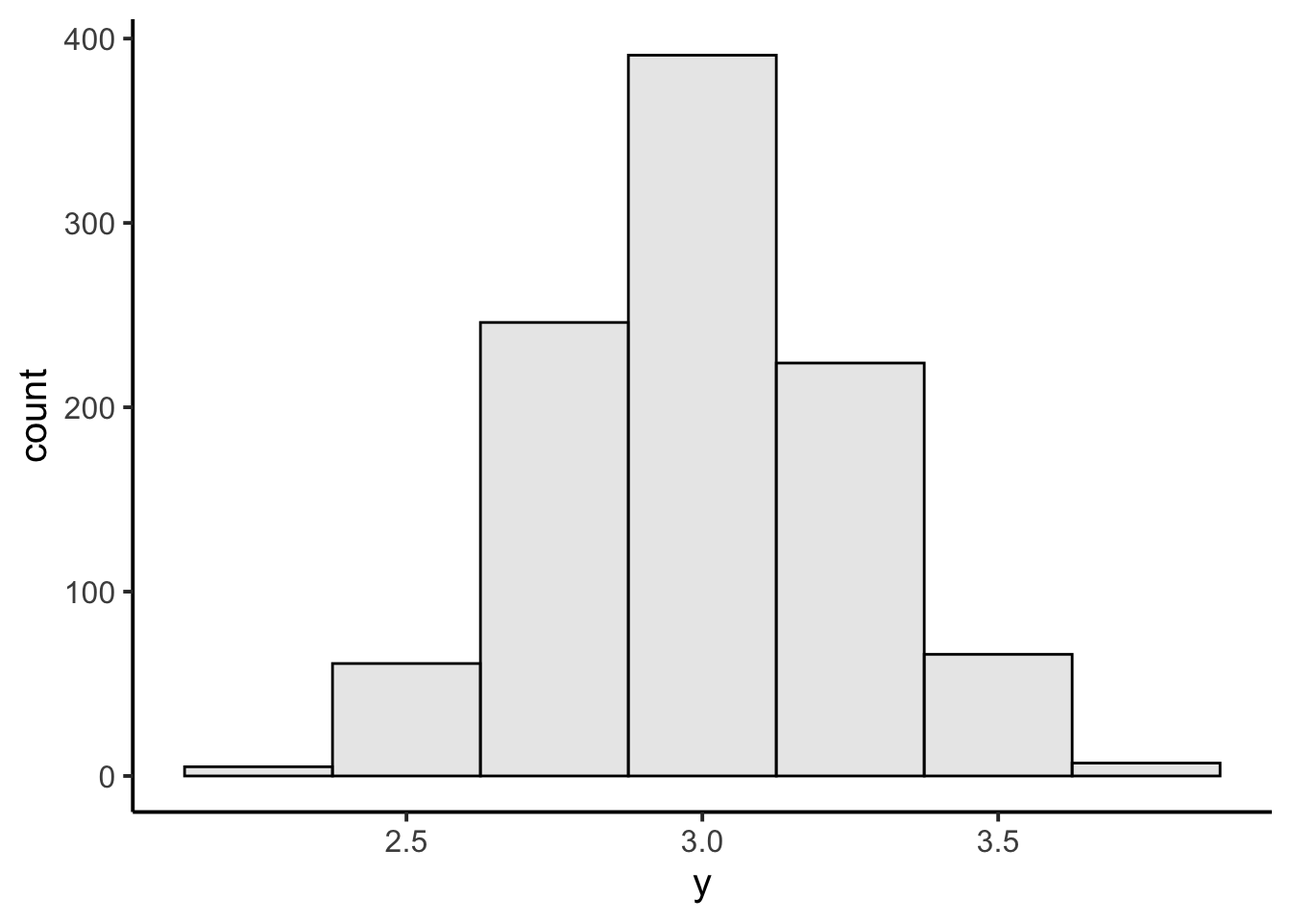
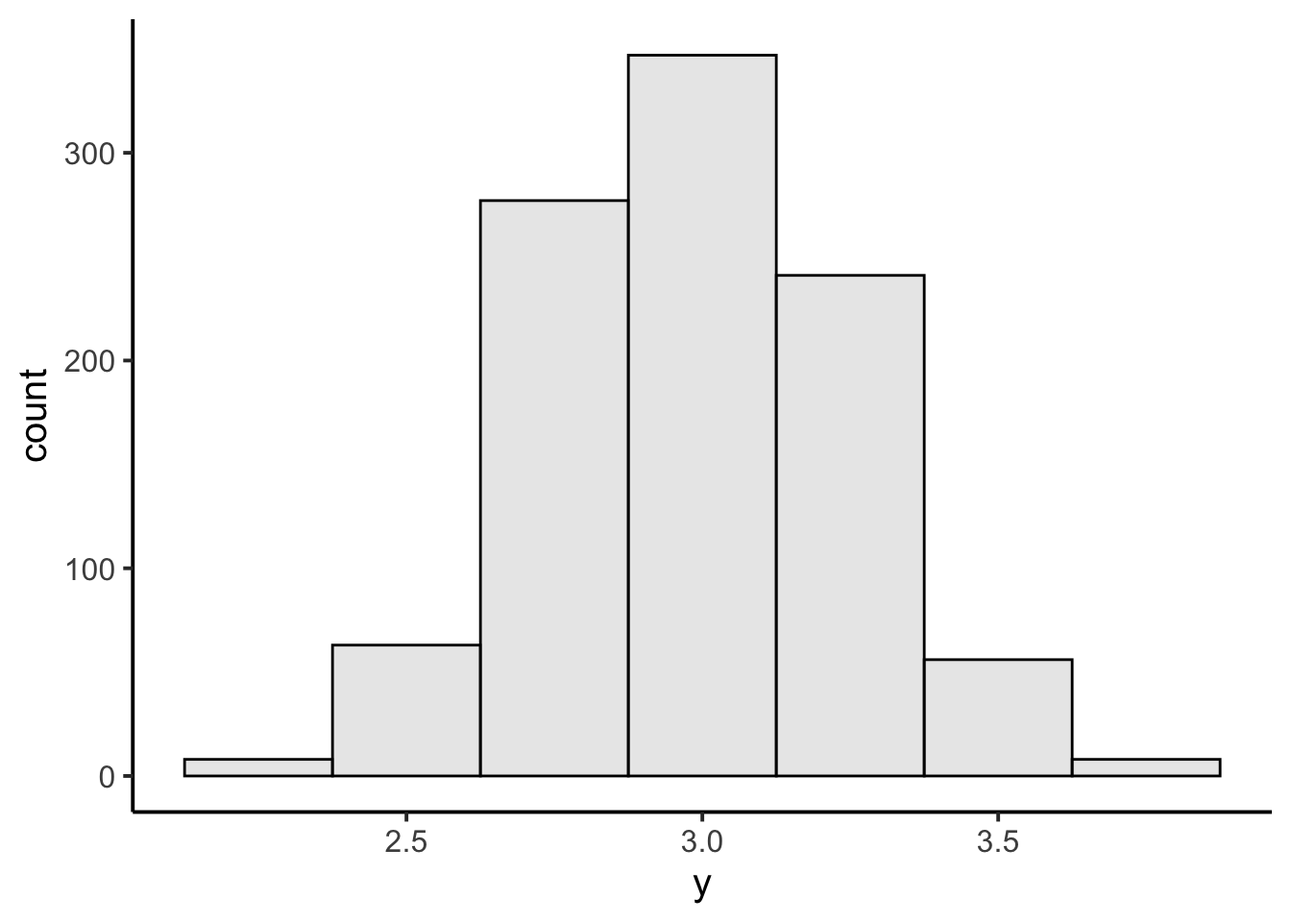
Built site for gh-pages

diff --git a/labs/lab-01.html b/labs/lab-01.html
@@ -412,46 +412,46 @@ window.onload = function() {
 <section id="google-colab" class="level2" data-number="1">
 <h2 data-number="1" class="anchored" data-anchor-id="google-colab"><span class="header-section-number">1</span> Google Colab</h2>
 <p>True or false? We start a new R notebook in Google Colab with <code>File &gt; New notebook</code></p>
-<div id="radio_JQODFBOKNU" class="webex-radiogroup">
-<label><input type="radio" autocomplete="off" name="radio_JQODFBOKNU" value=""> <span>True</span></label><label><input type="radio" autocomplete="off" name="radio_JQODFBOKNU" value="answer"> <span>False</span></label>
+<div id="radio_GAFTYMOQOV" class="webex-radiogroup">
+<label><input type="radio" autocomplete="off" name="radio_GAFTYMOQOV" value=""> <span>True</span></label><label><input type="radio" autocomplete="off" name="radio_GAFTYMOQOV" value="answer"> <span>False</span></label>
 </div>
 <p>For problem sets, how will you submit your colab notebook for grading?</p>
-<div id="radio_BHKYVLHBWE" class="webex-radiogroup">
-<label><input type="radio" autocomplete="off" name="radio_BHKYVLHBWE" value="answer"> <span><code>File &gt; Download &gt; Download .ipynb</code>, then upload to Gradescope</span></label><label><input type="radio" autocomplete="off" name="radio_BHKYVLHBWE" value=""> <span><code>File &gt; Download &gt; Download .ipynb</code>, then upload to Canvas</span></label><label><input type="radio" autocomplete="off" name="radio_BHKYVLHBWE" value=""> <span><code>File &gt; Download &gt; Download .py</code>, then upload to Gradescope</span></label><label><input type="radio" autocomplete="off" name="radio_BHKYVLHBWE" value=""> <span><code>File &gt; Download &gt; Download .py</code>, then upload to Canvas</span></label>
+<div id="radio_HSCRDJYMYS" class="webex-radiogroup">
+<label><input type="radio" autocomplete="off" name="radio_HSCRDJYMYS" value="answer"> <span><code>File &gt; Download &gt; Download .ipynb</code>, then upload to Gradescope</span></label><label><input type="radio" autocomplete="off" name="radio_HSCRDJYMYS" value=""> <span><code>File &gt; Download &gt; Download .ipynb</code>, then upload to Canvas</span></label><label><input type="radio" autocomplete="off" name="radio_HSCRDJYMYS" value=""> <span><code>File &gt; Download &gt; Download .py</code>, then upload to Gradescope</span></label><label><input type="radio" autocomplete="off" name="radio_HSCRDJYMYS" value=""> <span><code>File &gt; Download &gt; Download .py</code>, then upload to Canvas</span></label>
 </div>
 <p>What version of R is Google Colab running? Hint: use <code>sessionInfo()</code>.</p>
 <p><input class="webex-solveme nospaces" size="20" data-answer="[&quot;4.3.1&quot;]"></p>
 <p>What is the relationship between R and Google Colab?</p>
-<div id="radio_DTKJQEHMBB" class="webex-radiogroup">
-<label><input type="radio" autocomplete="off" name="radio_DTKJQEHMBB" value=""> <span>R is a programming language. Google Colab is a smaller, specific version of R.</span></label><label><input type="radio" autocomplete="off" name="radio_DTKJQEHMBB" value="answer"> <span>R is a programming language. Google Colab is a development environment where you can run R</span></label><label><input type="radio" autocomplete="off" name="radio_DTKJQEHMBB" value=""> <span>R and Google Colab are both programming languages.</span></label><label><input type="radio" autocomplete="off" name="radio_DTKJQEHMBB" value=""> <span>R is a paid (proprietary) programming language. Google Colab is a free service to run R.</span></label>
+<div id="radio_XBIIFSILUJ" class="webex-radiogroup">
+<label><input type="radio" autocomplete="off" name="radio_XBIIFSILUJ" value=""> <span>R is a programming language. Google Colab is a smaller, specific version of R.</span></label><label><input type="radio" autocomplete="off" name="radio_XBIIFSILUJ" value="answer"> <span>R is a programming language. Google Colab is a development environment where you can run R</span></label><label><input type="radio" autocomplete="off" name="radio_XBIIFSILUJ" value=""> <span>R and Google Colab are both programming languages.</span></label><label><input type="radio" autocomplete="off" name="radio_XBIIFSILUJ" value=""> <span>R is a paid (proprietary) programming language. Google Colab is a free service to run R.</span></label>
 </div>
 </section>
 <section id="r-basics" class="level2" data-number="2">
 <h2 data-number="2" class="anchored" data-anchor-id="r-basics"><span class="header-section-number">2</span> R Basics</h2>
 <p>Which of the following are expressions?</p>
-<div id="radio_QZDQLLTHPH" class="webex-radiogroup">
-<label><input type="radio" autocomplete="off" name="radio_QZDQLLTHPH" value="answer"> <span>10</span></label><label><input type="radio" autocomplete="off" name="radio_QZDQLLTHPH" value="answer"> <span>5 + 10</span></label><label><input type="radio" autocomplete="off" name="radio_QZDQLLTHPH" value="answer"> <span>x &lt;- 5 + 10</span></label><label><input type="radio" autocomplete="off" name="radio_QZDQLLTHPH" value="answer"> <span>x &lt;- y + 10</span></label><label><input type="radio" autocomplete="off" name="radio_QZDQLLTHPH" value="answer"> <span>mean(x)</span></label>
+<div id="radio_UCOGDESHLT" class="webex-radiogroup">
+<label><input type="radio" autocomplete="off" name="radio_UCOGDESHLT" value="answer"> <span>10</span></label><label><input type="radio" autocomplete="off" name="radio_UCOGDESHLT" value="answer"> <span>5 + 10</span></label><label><input type="radio" autocomplete="off" name="radio_UCOGDESHLT" value="answer"> <span>x &lt;- 5 + 10</span></label><label><input type="radio" autocomplete="off" name="radio_UCOGDESHLT" value="answer"> <span>x &lt;- y + 10</span></label><label><input type="radio" autocomplete="off" name="radio_UCOGDESHLT" value="answer"> <span>mean(x)</span></label>
 </div>
 <p>Which of the following are valid variable names in R?</p>
-<div id="radio_DOBWZFVALG" class="webex-radiogroup">
-<label><input type="radio" autocomplete="off" name="radio_DOBWZFVALG" value="answer"> <span>childAge</span></label><label><input type="radio" autocomplete="off" name="radio_DOBWZFVALG" value="answer"> <span>response_time</span></label><label><input type="radio" autocomplete="off" name="radio_DOBWZFVALG" value=""> <span>1stPlaceWinner</span></label><label><input type="radio" autocomplete="off" name="radio_DOBWZFVALG" value=""> <span>2fast2furious</span></label><label><input type="radio" autocomplete="off" name="radio_DOBWZFVALG" value=""> <span>pi</span></label>
+<div id="radio_MMCMQHDRFL" class="webex-radiogroup">
+<label><input type="radio" autocomplete="off" name="radio_MMCMQHDRFL" value="answer"> <span>childAge</span></label><label><input type="radio" autocomplete="off" name="radio_MMCMQHDRFL" value="answer"> <span>response_time</span></label><label><input type="radio" autocomplete="off" name="radio_MMCMQHDRFL" value=""> <span>1stPlaceWinner</span></label><label><input type="radio" autocomplete="off" name="radio_MMCMQHDRFL" value=""> <span>2fast2furious</span></label><label><input type="radio" autocomplete="off" name="radio_MMCMQHDRFL" value=""> <span>pi</span></label>
 </div>
 <p>Suppose we open a new colab notebook and run the following code block. What will be returned?</p>
 <div class="sourceCode" id="cb1"><pre class="sourceCode r code-with-copy"><code class="sourceCode r"><span id="cb1-1"><a href="#cb1-1" aria-hidden="true" tabindex="-1"></a>x <span class="ot">&lt;-</span> <span class="dv">1</span> <span class="sc">+</span> <span class="dv">2</span></span>
 <span id="cb1-2"><a href="#cb1-2" aria-hidden="true" tabindex="-1"></a>y <span class="ot">&lt;-</span> <span class="dv">0</span> <span class="sc">+</span> <span class="dv">3</span></span>
 <span id="cb1-3"><a href="#cb1-3" aria-hidden="true" tabindex="-1"></a><span class="fu">ls</span>()</span></code><button title="Copy to Clipboard" class="code-copy-button"><i class="bi"></i></button></pre></div>
-<div id="radio_FJJPLSKICM" class="webex-radiogroup">
-<label><input type="radio" autocomplete="off" name="radio_FJJPLSKICM" value=""> <span>3</span></label><label><input type="radio" autocomplete="off" name="radio_FJJPLSKICM" value=""> <span>x=3 • y=3</span></label><label><input type="radio" autocomplete="off" name="radio_FJJPLSKICM" value="answer"> <span>'x' • 'y' </span></label><label><input type="radio" autocomplete="off" name="radio_FJJPLSKICM" value=""> <span>mean(c(1,3,5)) • median(c(1,3,5))</span></label>
+<div id="radio_FJQXQTOWFB" class="webex-radiogroup">
+<label><input type="radio" autocomplete="off" name="radio_FJQXQTOWFB" value=""> <span>3</span></label><label><input type="radio" autocomplete="off" name="radio_FJQXQTOWFB" value=""> <span>x=3 • y=3</span></label><label><input type="radio" autocomplete="off" name="radio_FJQXQTOWFB" value="answer"> <span>'x' • 'y' </span></label><label><input type="radio" autocomplete="off" name="radio_FJQXQTOWFB" value=""> <span>mean(c(1,3,5)) • median(c(1,3,5))</span></label>
 </div>
 <p>Which of the following will load the <code>emo</code> package into the current environment?</p>
-<div id="radio_MDCDVDHTWB" class="webex-radiogroup">
-<label><input type="radio" autocomplete="off" name="radio_MDCDVDHTWB" value=""> <span>install.packages('emo')</span></label><label><input type="radio" autocomplete="off" name="radio_MDCDVDHTWB" value="answer"> <span>library(emo)</span></label><label><input type="radio" autocomplete="off" name="radio_MDCDVDHTWB" value=""> <span>data(emo)</span></label><label><input type="radio" autocomplete="off" name="radio_MDCDVDHTWB" value=""> <span>attributes(emo)</span></label>
+<div id="radio_CWAKWFIECK" class="webex-radiogroup">
+<label><input type="radio" autocomplete="off" name="radio_CWAKWFIECK" value=""> <span>install.packages('emo')</span></label><label><input type="radio" autocomplete="off" name="radio_CWAKWFIECK" value="answer"> <span>library(emo)</span></label><label><input type="radio" autocomplete="off" name="radio_CWAKWFIECK" value=""> <span>data(emo)</span></label><label><input type="radio" autocomplete="off" name="radio_CWAKWFIECK" value=""> <span>attributes(emo)</span></label>
 </div>
 <p>Which of the following occur in the code block below?</p>
 <div class="sourceCode" id="cb2"><pre class="sourceCode r code-with-copy"><code class="sourceCode r"><span id="cb2-1"><a href="#cb2-1" aria-hidden="true" tabindex="-1"></a><span class="co"># compute the mean of x and y</span></span>
 <span id="cb2-2"><a href="#cb2-2" aria-hidden="true" tabindex="-1"></a><span class="fu">mean</span>(<span class="fu">c</span>(x,y))</span></code><button title="Copy to Clipboard" class="code-copy-button"><i class="bi"></i></button></pre></div>
-<div id="radio_RFCUAZYACP" class="webex-radiogroup">
-<label><input type="radio" autocomplete="off" name="radio_RFCUAZYACP" value=""> <span>a message</span></label><label><input type="radio" autocomplete="off" name="radio_RFCUAZYACP" value="answer"> <span>a function</span></label><label><input type="radio" autocomplete="off" name="radio_RFCUAZYACP" value="answer"> <span>a comment</span></label><label><input type="radio" autocomplete="off" name="radio_RFCUAZYACP" value="answer"> <span>an expression</span></label>
+<div id="radio_CTUAQVIWHM" class="webex-radiogroup">
+<label><input type="radio" autocomplete="off" name="radio_CTUAQVIWHM" value=""> <span>a message</span></label><label><input type="radio" autocomplete="off" name="radio_CTUAQVIWHM" value="answer"> <span>a function</span></label><label><input type="radio" autocomplete="off" name="radio_CTUAQVIWHM" value="answer"> <span>a comment</span></label><label><input type="radio" autocomplete="off" name="radio_CTUAQVIWHM" value="answer"> <span>an expression</span></label>
 </div>
 </section>
 <section id="vectors" class="level2" data-number="3">
@@ -460,8 +460,8 @@ window.onload = function() {
 <div class="sourceCode" id="cb3"><pre class="sourceCode r code-with-copy"><code class="sourceCode r"><span id="cb3-1"><a href="#cb3-1" aria-hidden="true" tabindex="-1"></a><span class="fu">typeof</span>(x)</span></code><button title="Copy to Clipboard" class="code-copy-button"><i class="bi"></i></button></pre></div>
 <p><input class="webex-solveme nospaces" size="20" data-answer="[&quot;character&quot;]"></p>
 <p>What is the previous question an example of?</p>
-<div id="radio_CFOLSDRTKD" class="webex-radiogroup">
-<label><input type="radio" autocomplete="off" name="radio_CFOLSDRTKD" value=""> <span>attribute addition</span></label><label><input type="radio" autocomplete="off" name="radio_CFOLSDRTKD" value=""> <span>explicit coercion</span></label><label><input type="radio" autocomplete="off" name="radio_CFOLSDRTKD" value="answer"> <span>implicit coercion</span></label><label><input type="radio" autocomplete="off" name="radio_CFOLSDRTKD" value=""> <span>none of the above</span></label>
+<div id="radio_QXSOYDYBMQ" class="webex-radiogroup">
+<label><input type="radio" autocomplete="off" name="radio_QXSOYDYBMQ" value=""> <span>attribute addition</span></label><label><input type="radio" autocomplete="off" name="radio_QXSOYDYBMQ" value=""> <span>explicit coercion</span></label><label><input type="radio" autocomplete="off" name="radio_QXSOYDYBMQ" value="answer"> <span>implicit coercion</span></label><label><input type="radio" autocomplete="off" name="radio_QXSOYDYBMQ" value=""> <span>none of the above</span></label>
 </div>
 <p>What will the following code block return?</p>
 <div class="sourceCode" id="cb4"><pre class="sourceCode r code-with-copy"><code class="sourceCode r"><span id="cb4-1"><a href="#cb4-1" aria-hidden="true" tabindex="-1"></a>x <span class="ot">&lt;-</span> <span class="dv">1</span><span class="sc">:</span><span class="dv">6</span></span>
@@ -478,40 +478,40 @@ window.onload = function() {
 <pre><code> num [1:4] 1 0 1 0</code></pre>
 </div>
 </div>
-<div id="radio_OEEZHWQTNB" class="webex-radiogroup">
-<label><input type="radio" autocomplete="off" name="radio_OEEZHWQTNB" value=""> <span>an error</span></label><label><input type="radio" autocomplete="off" name="radio_OEEZHWQTNB" value="answer"> <span>TRUE • FALSE • TRUE • FALSE</span></label><label><input type="radio" autocomplete="off" name="radio_OEEZHWQTNB" value=""> <span>FALSE</span></label><label><input type="radio" autocomplete="off" name="radio_OEEZHWQTNB" value=""> <span>FALSE • TRUE • FALSE • TRUE</span></label>
+<div id="radio_ZBQCOXKBGJ" class="webex-radiogroup">
+<label><input type="radio" autocomplete="off" name="radio_ZBQCOXKBGJ" value=""> <span>an error</span></label><label><input type="radio" autocomplete="off" name="radio_ZBQCOXKBGJ" value="answer"> <span>TRUE • FALSE • TRUE • FALSE</span></label><label><input type="radio" autocomplete="off" name="radio_ZBQCOXKBGJ" value=""> <span>FALSE</span></label><label><input type="radio" autocomplete="off" name="radio_ZBQCOXKBGJ" value=""> <span>FALSE • TRUE • FALSE • TRUE</span></label>
 </div>
 <p>Given the following vector, what will <code>as.double(x)</code> return?</p>
 <div class="sourceCode" id="cb7"><pre class="sourceCode r code-with-copy"><code class="sourceCode r"><span id="cb7-1"><a href="#cb7-1" aria-hidden="true" tabindex="-1"></a>x <span class="ot">&lt;-</span> <span class="fu">c</span>(<span class="st">"one"</span>, <span class="st">"two"</span>, <span class="st">"three"</span>)</span></code><button title="Copy to Clipboard" class="code-copy-button"><i class="bi"></i></button></pre></div>
-<div id="radio_LDDHQGVRPF" class="webex-radiogroup">
-<label><input type="radio" autocomplete="off" name="radio_LDDHQGVRPF" value="answer"> <span>an error</span></label><label><input type="radio" autocomplete="off" name="radio_LDDHQGVRPF" value=""> <span>1 • 2 • 3</span></label><label><input type="radio" autocomplete="off" name="radio_LDDHQGVRPF" value=""> <span>2 • 4 • 6</span></label><label><input type="radio" autocomplete="off" name="radio_LDDHQGVRPF" value=""> <span>'one' • 'two' • 'three'</span></label>
+<div id="radio_KXDCOVMCBC" class="webex-radiogroup">
+<label><input type="radio" autocomplete="off" name="radio_KXDCOVMCBC" value="answer"> <span>an error</span></label><label><input type="radio" autocomplete="off" name="radio_KXDCOVMCBC" value=""> <span>1 • 2 • 3</span></label><label><input type="radio" autocomplete="off" name="radio_KXDCOVMCBC" value=""> <span>2 • 4 • 6</span></label><label><input type="radio" autocomplete="off" name="radio_KXDCOVMCBC" value=""> <span>'one' • 'two' • 'three'</span></label>
 </div>
 <p>What happens if you add a vector of numbers to a single number in the following expression?</p>
 <div class="sourceCode" id="cb8"><pre class="sourceCode r code-with-copy"><code class="sourceCode r"><span id="cb8-1"><a href="#cb8-1" aria-hidden="true" tabindex="-1"></a><span class="fu">c</span>(<span class="dv">1</span>, <span class="dv">3</span>, <span class="dv">5</span>) <span class="sc">+</span> <span class="dv">1</span></span></code><button title="Copy to Clipboard" class="code-copy-button"><i class="bi"></i></button></pre></div>
-<div id="radio_QTHWFUDYEK" class="webex-radiogroup">
-<label><input type="radio" autocomplete="off" name="radio_QTHWFUDYEK" value=""> <span>2 • 3 • 5</span></label><label><input type="radio" autocomplete="off" name="radio_QTHWFUDYEK" value=""> <span>Error: length mismatch</span></label><label><input type="radio" autocomplete="off" name="radio_QTHWFUDYEK" value=""> <span>1 • 3 • 5 • 1</span></label><label><input type="radio" autocomplete="off" name="radio_QTHWFUDYEK" value="answer"> <span>2 • 4 • 6</span></label>
+<div id="radio_YHFOFVMBYJ" class="webex-radiogroup">
+<label><input type="radio" autocomplete="off" name="radio_YHFOFVMBYJ" value=""> <span>2 • 3 • 5</span></label><label><input type="radio" autocomplete="off" name="radio_YHFOFVMBYJ" value=""> <span>Error: length mismatch</span></label><label><input type="radio" autocomplete="off" name="radio_YHFOFVMBYJ" value=""> <span>1 • 3 • 5 • 1</span></label><label><input type="radio" autocomplete="off" name="radio_YHFOFVMBYJ" value="answer"> <span>2 • 4 • 6</span></label>
 </div>
 <p>What happens if you multiply a vector times another vector?</p>
 <div class="sourceCode" id="cb9"><pre class="sourceCode r code-with-copy"><code class="sourceCode r"><span id="cb9-1"><a href="#cb9-1" aria-hidden="true" tabindex="-1"></a><span class="fu">c</span>(<span class="dv">1</span>, <span class="dv">3</span>, <span class="dv">5</span>) <span class="sc">*</span> <span class="fu">c</span>(<span class="dv">10</span>, <span class="dv">100</span>, <span class="dv">1000</span>)</span></code><button title="Copy to Clipboard" class="code-copy-button"><i class="bi"></i></button></pre></div>
-<div id="radio_ELQNVAQXEQ" class="webex-radiogroup">
-<label><input type="radio" autocomplete="off" name="radio_ELQNVAQXEQ" value="answer"> <span>10 • 300 • 5000</span></label><label><input type="radio" autocomplete="off" name="radio_ELQNVAQXEQ" value=""> <span>Error: length mismatch</span></label><label><input type="radio" autocomplete="off" name="radio_ELQNVAQXEQ" value=""> <span>10 • 30 • 50 • 100 • 300 • 500 • 1000 • 3000 • 5000</span></label><label><input type="radio" autocomplete="off" name="radio_ELQNVAQXEQ" value=""> <span>a 2 x 3 matrix</span></label><label><input type="radio" autocomplete="off" name="radio_ELQNVAQXEQ" value=""> <span>Error: cannot multiply vectors</span></label>
+<div id="radio_OTRRCADLIT" class="webex-radiogroup">
+<label><input type="radio" autocomplete="off" name="radio_OTRRCADLIT" value="answer"> <span>10 • 300 • 5000</span></label><label><input type="radio" autocomplete="off" name="radio_OTRRCADLIT" value=""> <span>Error: length mismatch</span></label><label><input type="radio" autocomplete="off" name="radio_OTRRCADLIT" value=""> <span>10 • 30 • 50 • 100 • 300 • 500 • 1000 • 3000 • 5000</span></label><label><input type="radio" autocomplete="off" name="radio_OTRRCADLIT" value=""> <span>a 2 x 3 matrix</span></label><label><input type="radio" autocomplete="off" name="radio_OTRRCADLIT" value=""> <span>Error: cannot multiply vectors</span></label>
 </div>
 <p>Suppose we run the following code. What will <code>any(x)</code> return?</p>
 <div class="sourceCode" id="cb10"><pre class="sourceCode r code-with-copy"><code class="sourceCode r"><span id="cb10-1"><a href="#cb10-1" aria-hidden="true" tabindex="-1"></a>x <span class="ot">&lt;-</span> <span class="fu">c</span>(<span class="dv">1</span>, <span class="dv">5</span>, <span class="dv">11</span>) <span class="sc">&gt;</span> <span class="dv">10</span></span></code><button title="Copy to Clipboard" class="code-copy-button"><i class="bi"></i></button></pre></div>
-<div id="radio_FUTTPXQCLR" class="webex-radiogroup">
-<label><input type="radio" autocomplete="off" name="radio_FUTTPXQCLR" value="answer"> <span>TRUE</span></label><label><input type="radio" autocomplete="off" name="radio_FUTTPXQCLR" value=""> <span>FALSE</span></label><label><input type="radio" autocomplete="off" name="radio_FUTTPXQCLR" value=""> <span>error: vector is double but requires logical</span></label>
+<div id="radio_XKABVXORQN" class="webex-radiogroup">
+<label><input type="radio" autocomplete="off" name="radio_XKABVXORQN" value="answer"> <span>TRUE</span></label><label><input type="radio" autocomplete="off" name="radio_XKABVXORQN" value=""> <span>FALSE</span></label><label><input type="radio" autocomplete="off" name="radio_XKABVXORQN" value=""> <span>Error: vector is double but requires logical</span></label>
 </div>
 </section>
 <section id="subsetting" class="level2" data-number="4">
 <h2 data-number="4" class="anchored" data-anchor-id="subsetting"><span class="header-section-number">4</span> Subsetting</h2>
 <p>Which of the following code subsets the vector <code>x &lt;- c("blue", "pink", "red")</code> to return just the first element?</p>
-<div id="radio_NURRKLBNPY" class="webex-radiogroup">
-<label><input type="radio" autocomplete="off" name="radio_NURRKLBNPY" value="answer"> <span>x[1]</span></label><label><input type="radio" autocomplete="off" name="radio_NURRKLBNPY" value="answer"> <span>x[[1]]</span></label><label><input type="radio" autocomplete="off" name="radio_NURRKLBNPY" value=""> <span>x[0]</span></label><label><input type="radio" autocomplete="off" name="radio_NURRKLBNPY" value="answer"> <span>x[-c(2, 3)]</span></label><label><input type="radio" autocomplete="off" name="radio_NURRKLBNPY" value=""> <span>x[“blue”]</span></label>
+<div id="radio_YEPLOKUJRW" class="webex-radiogroup">
+<label><input type="radio" autocomplete="off" name="radio_YEPLOKUJRW" value="answer"> <span>x[1]</span></label><label><input type="radio" autocomplete="off" name="radio_YEPLOKUJRW" value="answer"> <span>x[[1]]</span></label><label><input type="radio" autocomplete="off" name="radio_YEPLOKUJRW" value=""> <span>x[0]</span></label><label><input type="radio" autocomplete="off" name="radio_YEPLOKUJRW" value="answer"> <span>x[-c(2, 3)]</span></label><label><input type="radio" autocomplete="off" name="radio_YEPLOKUJRW" value=""> <span>x[“blue”]</span></label>
 </div>
-<p>Suppose we run the following code. What will `x[[2]] return?</p>
+<p>Suppose we run the following code. What will <code>x[[2]]</code> return?</p>
 <div class="sourceCode" id="cb11"><pre class="sourceCode r code-with-copy"><code class="sourceCode r"><span id="cb11-1"><a href="#cb11-1" aria-hidden="true" tabindex="-1"></a>x <span class="ot">&lt;-</span> <span class="fu">seq</span>(<span class="at">from =</span> <span class="dv">2</span>, <span class="at">to =</span><span class="dv">8</span>, <span class="at">by=</span><span class="dv">2</span>)</span></code><button title="Copy to Clipboard" class="code-copy-button"><i class="bi"></i></button></pre></div>
 <p><input class="webex-solveme nospaces" size="20" data-answer="[&quot;4&quot;]"></p>
-<p>Suppose we run the following code. What will `m[1, 2] return?</p>
+<p>Suppose we run the following code. What will <code>m[1, 2]</code> return?</p>
 <div class="sourceCode" id="cb12"><pre class="sourceCode r code-with-copy"><code class="sourceCode r"><span id="cb12-1"><a href="#cb12-1" aria-hidden="true" tabindex="-1"></a>m <span class="ot">&lt;-</span> <span class="fu">matrix</span>(<span class="fu">c</span>(<span class="dv">10</span>,<span class="dv">20</span>,<span class="dv">30</span>,<span class="dv">40</span>), <span class="at">nrow=</span><span class="dv">2</span>, <span class="at">ncol=</span><span class="dv">2</span>)</span></code><button title="Copy to Clipboard" class="code-copy-button"><i class="bi"></i></button></pre></div>
 <p><input class="webex-solveme nospaces" size="20" data-answer="[&quot;30&quot;]"></p>
 <!---

diff --git a/webexercises.html b/webexercises.html
@@ -402,7 +402,7 @@ window.onload = function() {
 </ul>
 <p>You can also create these questions dynamically, using variables from your R session.</p>
 <ul>
-<li>The square root of 64 is: <input class="webex-solveme nospaces" size="1" data-answer="[&quot;8&quot;]"></li>
+<li>The square root of 36 is: <input class="webex-solveme nospaces" size="1" data-answer="[&quot;6&quot;]"></li>
 </ul>
 <p>The blanks are case-sensitive; if you don’t care about case, use the argument <code>ignore_case = TRUE</code>.</p>
 <ul>
@@ -438,12 +438,12 @@ window.onload = function() {
 <h3 class="anchored" data-anchor-id="longer-mcqs-longmcq">Longer MCQs (<code>longmcq()</code>)</h3>
 <p>When your answers are very long, sometimes a drop-down select box gets formatted oddly. You can use <code>longmcq()</code> to deal with this. Since the answers are long, It’s probably best to set up the options inside an R chunk with <code>echo=FALSE</code>.</p>
 <p><strong>What is a p-value?</strong></p>
-<div id="radio_MSOWYMVKVZ" class="webex-radiogroup">
-<label><input type="radio" autocomplete="off" name="radio_MSOWYMVKVZ" value=""> <span>the probability that the null hypothesis is true</span></label><label><input type="radio" autocomplete="off" name="radio_MSOWYMVKVZ" value="answer"> <span>the probability of the observed, or more extreme, data, under the assumption that the null-hypothesis is true</span></label><label><input type="radio" autocomplete="off" name="radio_MSOWYMVKVZ" value=""> <span>the probability of making an error in your conclusion</span></label>
+<div id="radio_GMUNGCBHMH" class="webex-radiogroup">
+<label><input type="radio" autocomplete="off" name="radio_GMUNGCBHMH" value=""> <span>the probability that the null hypothesis is true</span></label><label><input type="radio" autocomplete="off" name="radio_GMUNGCBHMH" value="answer"> <span>the probability of the observed, or more extreme, data, under the assumption that the null-hypothesis is true</span></label><label><input type="radio" autocomplete="off" name="radio_GMUNGCBHMH" value=""> <span>the probability of making an error in your conclusion</span></label>
 </div>
 <p><strong>What is true about a 95% confidence interval of the mean?</strong></p>
-<div id="radio_FLFSIOQDRP" class="webex-radiogroup">
-<label><input type="radio" autocomplete="off" name="radio_FLFSIOQDRP" value="answer"> <span>if you repeated the process many times, 95% of intervals calculated in this way contain the true mean</span></label><label><input type="radio" autocomplete="off" name="radio_FLFSIOQDRP" value=""> <span>95% of the data fall within this range</span></label><label><input type="radio" autocomplete="off" name="radio_FLFSIOQDRP" value=""> <span>there is a 95% probability that the true mean lies within this range</span></label>
+<div id="radio_PLJEACWTXQ" class="webex-radiogroup">
+<label><input type="radio" autocomplete="off" name="radio_PLJEACWTXQ" value=""> <span>95% of the data fall within this range</span></label><label><input type="radio" autocomplete="off" name="radio_PLJEACWTXQ" value=""> <span>there is a 95% probability that the true mean lies within this range</span></label><label><input type="radio" autocomplete="off" name="radio_PLJEACWTXQ" value="answer"> <span>if you repeated the process many times, 95% of intervals calculated in this way contain the true mean</span></label>
 </div>
 </section>
 </section>
@@ -453,8 +453,8 @@ window.onload = function() {
 <div class="webex-check webex-box">
 <p>I am going to learn a lot: <select class="webex-select"><option value="blank"></option><option value="answer">TRUE</option><option value="">FALSE</option></select></p>
 What is a p-value?
-<div id="radio_MHAIUENONO" class="webex-radiogroup">
-<label><input type="radio" autocomplete="off" name="radio_MHAIUENONO" value=""> <span>the probability that the null hypothesis is true</span></label><label><input type="radio" autocomplete="off" name="radio_MHAIUENONO" value="answer"> <span>the probability of the observed, or more extreme, data, under the assumption that the null-hypothesis is true</span></label><label><input type="radio" autocomplete="off" name="radio_MHAIUENONO" value=""> <span>the probability of making an error in your conclusion</span></label>
+<div id="radio_QIZJFDKCNH" class="webex-radiogroup">
+<label><input type="radio" autocomplete="off" name="radio_QIZJFDKCNH" value=""> <span>the probability that the null hypothesis is true</span></label><label><input type="radio" autocomplete="off" name="radio_QIZJFDKCNH" value="answer"> <span>the probability of the observed, or more extreme, data, under the assumption that the null-hypothesis is true</span></label><label><input type="radio" autocomplete="off" name="radio_QIZJFDKCNH" value=""> <span>the probability of making an error in your conclusion</span></label>
 </div>
 </div>
 </section>

diff --git a/psets/problem-set-01.html b/psets/problem-set-01.html
@@ -392,6 +392,8 @@ window.onload = function() {
   <li><a href="#problem-2" id="toc-problem-2" class="nav-link" data-scroll-target="#problem-2">Problem 2</a></li>
   <li><a href="#problem-3" id="toc-problem-3" class="nav-link" data-scroll-target="#problem-3">Problem 3</a></li>
   <li><a href="#problem-4" id="toc-problem-4" class="nav-link" data-scroll-target="#problem-4">Problem 4</a></li>
+  <li><a href="#problem-5" id="toc-problem-5" class="nav-link" data-scroll-target="#problem-5">Problem 5</a></li>
+  <li><a href="#problem-6" id="toc-problem-6" class="nav-link" data-scroll-target="#problem-6">Problem 6</a></li>
   </ul>
 <div class="quarto-alternate-formats"><h2>Other Formats</h2><ul><li><a href="problem-set-01.pdf"><i class="bi bi-file-pdf"></i>PDF</a></li></ul></div></nav>
     </div>
@@ -479,6 +481,38 @@ Upload your <code>.ipynb</code> notebook to gradescope by 11:59pm on the due dat
 <section id="problem-4" class="level2">
 <h2 class="anchored" data-anchor-id="problem-4">Problem 4</h2>
 <p>Read the documentation for the <a href="https://github.com/hadley/emo"><code>emo</code></a> package. Install and load the package. Then create a character vector including 8 of your favorite emojis by their keyword (see the docs for a list). Finally, use the package’s <code>emo::ji()</code> function in conjunction with <code>map_*()</code> to print all 8 emojis with one line of code. Combine this output with your keyword vector in a tibble.</p>
+</section>
+<section id="problem-5" class="level2">
+<h2 class="anchored" data-anchor-id="problem-5">Problem 5</h2>
+<div class="callout callout-style-simple callout-warning callout-titled" title="Under Construction">
+<div class="callout-header d-flex align-content-center">
+<div class="callout-icon-container">
+<i class="callout-icon"></i>
+</div>
+<div class="callout-title-container flex-fill">
+Under Construction
+</div>
+</div>
+<div class="callout-body-container callout-body">
+<p>Will be added on 2023-09-03</p>
+</div>
+</div>
+</section>
+<section id="problem-6" class="level2">
+<h2 class="anchored" data-anchor-id="problem-6">Problem 6</h2>
+<div class="callout callout-style-simple callout-warning callout-titled" title="Under Construction">
+<div class="callout-header d-flex align-content-center">
+<div class="callout-icon-container">
+<i class="callout-icon"></i>
+</div>
+<div class="callout-title-container flex-fill">
+Under Construction
+</div>
+</div>
+<div class="callout-body-container callout-body">
+<p>Will be added on 2023-09-03</p>
+</div>
+</div>
 <!---
  
 ## Problem Y

diff --git a/drafts.html b/drafts.html
@@ -468,7 +468,7 @@ Author
 <span class="listing-author">Katie Schuler</span>
 </td>
 </tr>
-<tr data-index="1" data-listing-date-sort="1693454400000" data-listing-file-modified-sort="1693475066876" data-listing-date-modified-sort="NaN" data-listing-reading-time-sort="12" data-listing-title-sort="R basics" data-listing-filename-sort="r-basics.qmd">
+<tr data-index="1" data-listing-date-sort="1693454400000" data-listing-file-modified-sort="1693500960361" data-listing-date-modified-sort="NaN" data-listing-reading-time-sort="12" data-listing-title-sort="R basics" data-listing-filename-sort="r-basics.qmd">
 <td>
 <span class="listing-date">Aug 31, 2023</span>
 </td>
@@ -671,7 +671,7 @@ Author
 <span class="listing-author">Katie Schuler</span>
 </td>
 </tr>
-<tr data-index="1" data-listing-file-modified-sort="1693500287823" data-listing-reading-time-sort="7" data-listing-title-sort="Lab 1: Getting started with R" data-listing-filename-sort="lab-01.qmd">
+<tr data-index="1" data-listing-file-modified-sort="1693501120023" data-listing-reading-time-sort="7" data-listing-title-sort="Lab 1: Getting started with R" data-listing-filename-sort="lab-01.qmd">
 <td>
 <span class="listing-date">undefined</span>
 </td>
@@ -706,7 +706,7 @@ Author
 </tr>
 </thead>
 <tbody class="list">
-<tr data-index="0" data-listing-file-modified-sort="1693497031676" data-listing-reading-time-sort="3" data-listing-title-sort="Problem set 1" data-listing-filename-sort="problem-set-01.qmd">
+<tr data-index="0" data-listing-file-modified-sort="1693500829279" data-listing-reading-time-sort="3" data-listing-title-sort="Problem set 1" data-listing-filename-sort="problem-set-01.qmd">
 <td>
 <a href="./psets/problem-set-01.html" class="title listing-title">Problem set 1</a>
 </td>

diff --git a/notes/r-basics.html b/notes/r-basics.html
@@ -493,6 +493,8 @@ window.onload = function() {
 <li><code>typeof(x)</code> - returns object’s data type</li>
 <li><code>length(x)</code> - returns object’s length</li>
 <li><code>attributes(x)</code> - returns list of object’s attributes</li>
+<li><code>x</code> - returns object x</li>
+<li><code>print(x)</code> - prints object x</li>
 </ul>
 <p>For environment:</p>
 <ul>

diff --git a/notes/probability-distributions.html b/notes/probability-distributions.html
@@ -474,7 +474,7 @@ Under Construction
 <pre><code># A tibble: 1 × 6
       n  mean median    sd iqr_lower iqr_upper
   &lt;int&gt; &lt;dbl&gt;  &lt;dbl&gt; &lt;dbl&gt;     &lt;dbl&gt;     &lt;dbl&gt;
-1  1000  3.00   3.00 0.249      2.83      3.17</code></pre>
+1  1000  2.99   2.98 0.254      2.81      3.17</code></pre>
 </div>
 </div>
 </section>

diff --git a/slides/r-basics.html b/slides/r-basics.html
@@ -1458,7 +1458,7 @@ Katie Schuler
 <p>Have a great weekend!</p>
 
 <div class="footer footer-default">
-<p><a href="../index.qmd">https://kathrynschuler.com/datasci</a></p>
+<p><a href="../index.html">https://kathrynschuler.com/datasci</a></p>
 </div>
 </section>
     </div>
